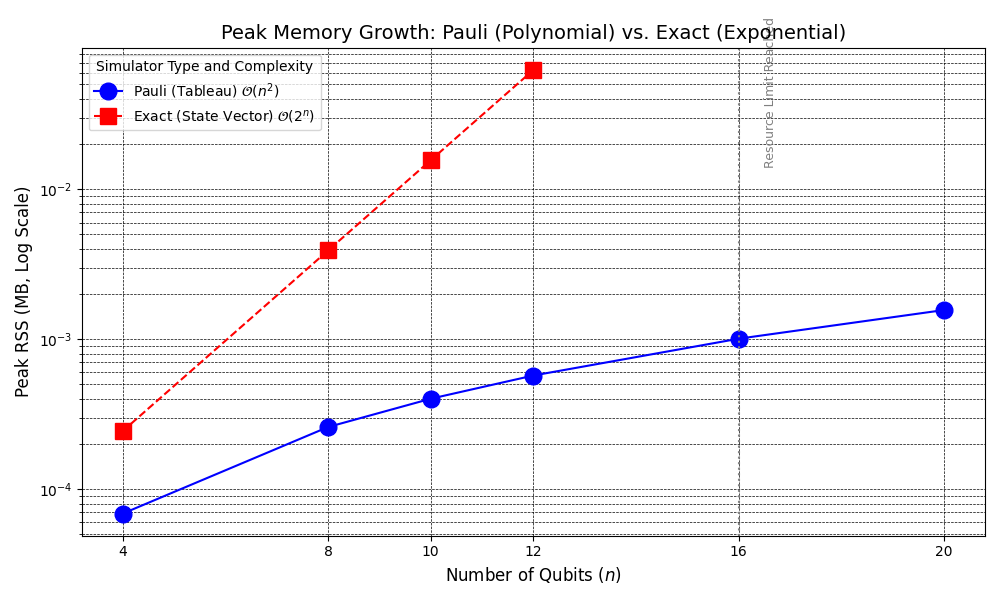
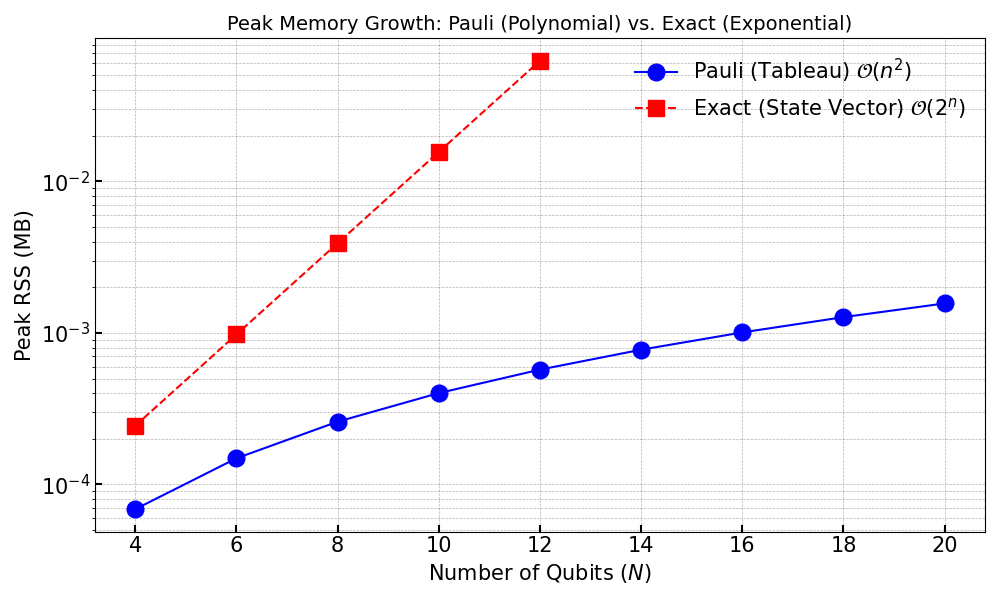
Updated visualizations

diff --git a/src/benchmark_and_plots.py b/src/benchmark_and_plots.py
@@ -11,7 +11,7 @@ from src.gates.registry import GateRegistry
 
 gate_registry = GateRegistry()
 
-QUBIT_RANGE = [4, 8, 10, 12, 16, 20] 
+QUBIT_RANGE = [4, 6, 8, 10, 12, 14, 16, 18, 20] 
 CIRCUIT_DEPTH = 50
 FAILED = -1.0
 
@@ -40,9 +40,6 @@ def measure_peak_rss(pid: int) -> float:
 
 def run_benchmark(qubits: int, circuit: List[Tuple], simulator_class: type, name: str) -> Dict[str, float]:
     """Runs a single benchmark for a given simulator and returns time and peak memory."""
-    
-    start_rss = measure_peak_rss(os.getpid())
-    peak_rss = start_rss
     run_time = FAILED
     success = True 
 
@@ -52,8 +49,6 @@ def run_benchmark(qubits: int, circuit: List[Tuple], simulator_class: type, name
             start_time = time.perf_counter()
             
             for gate, c, t in circuit:
-                current_rss = measure_peak_rss(os.getpid())
-                peak_rss = max(peak_rss, current_rss)
 
                 if gate == 'h':
                     sim.h(c)
@@ -73,8 +68,6 @@ def run_benchmark(qubits: int, circuit: List[Tuple], simulator_class: type, name
             start_time = time.perf_counter()
 
             for gate, c, t in circuit:
-                current_rss = measure_peak_rss(os.getpid())
-                peak_rss = max(peak_rss, current_rss)
 
                 if gate == 'cx':
                     sim.add_gate(gate_registry.get('cx'), targets=[c,t])
@@ -95,7 +88,6 @@ def run_benchmark(qubits: int, circuit: List[Tuple], simulator_class: type, name
          print(f"ERROR: {name} run at {qubits} qubits failed: {e}")
          success = False
     
-    current_rss = measure_peak_rss(os.getpid())
     peak_rss = sim.get_state_memory_mb()
     
     if not success:
@@ -122,7 +114,10 @@ def collect_data():
         circuit = generate_random_clifford_circuit(n, CIRCUIT_DEPTH)
 
         pauli_results = run_benchmark(n, circuit, Tableau, "Pauli (Tableau)")
-        exact_results = run_benchmark(n, circuit, QuantumCircuit, "Exact (State Vector)")
+        if n <= 12:
+            exact_results = run_benchmark(n, circuit, QuantumCircuit, "Exact (State Vector)")
+        else:
+            exact_results = {'time_s': FAILED, 'peak_rss_mb': FAILED}
 
         print(f"  Pauli Time: {pauli_results['time_s']:.4f} s | Exact Time: {exact_results['time_s']:.4f} s")
         print(f"  Pauli Mem: {pauli_results['peak_rss_mb']:.5f} MB | Exact Mem: {exact_results['peak_rss_mb']:.5f} MB")
@@ -153,28 +148,31 @@ def plot_results(df: pd.DataFrame):
     
     df_plot = df.replace(FAILED, np.nan)
     
-    plt.figure(figsize=(10, 6))
     plt.rcParams["grid.color"] = "black"
     plt.rcParams["grid.linestyle"] = "--"
     plt.rcParams["grid.linewidth"] = 1.5
-    plt.rcParams["grid.alpha"] = 1.0
+    plt.rcParams["grid.alpha"] = 0.3
+
+    plt.figure(figsize=(10, 6))
+    plt.gca().tick_params(axis='both', which='major', labelsize=15, direction='in', length=5, width=1.5)
 
     plt.plot(df_plot['Qubits'], df_plot['Pauli_Time_s'], marker='o', label='Pauli (Tableau) $\mathcal{O}(n^k)$', linestyle='-', color='blue', markersize=12)
     plt.plot(df_plot['Qubits'], df_plot['Exact_Time_s'], marker='s', label='Exact (State Vector) $\mathcal{O}(2^n)$', linestyle='--', color='red', markersize=12)
 
     # plt.grid(visible=True, color='black', linestyle='-', linewidth=1.5, alpha=1.0) 
     plt.yscale('log')
-    plt.title('Execution Time Growth: Pauli (Polynomial) vs. Exact (Exponential)', fontsize=14)
-    plt.xlabel('Number of Qubits ($n$)', fontsize=12)
-    plt.ylabel('Execution Time (Seconds, Log Scale)', fontsize=12)
+    plt.title('Wall Time Growth: Pauli (Polynomial) vs. Exact (Exponential)', fontsize=14)
+    plt.xlabel('Number of Qubits ($N$)', fontsize=15)
+    plt.ylabel('Wall Time (Seconds)', fontsize=15)
     plt.xticks(df['Qubits'])
     plt.grid(True, which="both", ls="--", linewidth=0.5)
-    plt.legend(title='Simulator Type and Complexity')
+    # plt.legend(fontsize=15, frameon=False)
     plt.tight_layout()
     plt.savefig('timing_growth_comparison_final.png')
     print("Saved: timing_growth_comparison_final.png")
 
     plt.figure(figsize=(10, 6))
+    plt.gca().tick_params(axis='both', which='major', labelsize=15, direction='in', length=5, width=1.5)
 
     plt.plot(df_plot['Qubits'], df_plot['Pauli_Mem_MB'], marker='o', label='Pauli (Tableau) $\mathcal{O}(n^2)$', linestyle='-', color='blue', markersize=12)
     plt.plot(df_plot['Qubits'], df_plot['Exact_Mem_MB'], marker='s', label='Exact (State Vector) $\mathcal{O}(2^n)$', linestyle='--', color='red', markersize=12)
@@ -182,18 +180,11 @@ def plot_results(df: pd.DataFrame):
     # plt.grid(visible=True, color='black', linestyle='--', linewidth=1.5, alpha=1.0) 
     plt.yscale('log')
     plt.title('Peak Memory Growth: Pauli (Polynomial) vs. Exact (Exponential)', fontsize=14)
-    plt.xlabel('Number of Qubits ($n$)', fontsize=12)
-    plt.ylabel('Peak RSS (MB, Log Scale)', fontsize=12)
+    plt.xlabel('Number of Qubits ($N$)', fontsize=15)
+    plt.ylabel('Peak RSS (MB)', fontsize=15)
     plt.xticks(df['Qubits'])
     plt.grid(True, which="both", ls="--", linewidth=0.5)
-    plt.legend(title='Simulator Type and Complexity')
-    
-    failed_n = df[df['Exact_Mem_MB'] == FAILED]['Qubits']
-    if not failed_n.empty:
-        first_fail_n = failed_n.iloc[0]
-        plt.axvline(x=first_fail_n, color='gray', linestyle=':', linewidth=1.5, label='Approx. Failure Point')
-        plt.text(first_fail_n + 0.5, plt.ylim()[1] / 2, 'Resource Limit Reached',
-                 color='gray', rotation=90, va='center', ha='left', fontsize=9)
+    plt.legend(fontsize=15, frameon=False)
 
     plt.tight_layout()
     plt.savefig('memory_growth_comparison_final.png')

diff --git a/src/visualization_dump.py b/src/visualization_dump.py
@@ -6,6 +6,8 @@ def create_memory_context_plot():
     """
     Creates two graphs: one log scale (for true comparison) and one linear scale
     (to show the exponential curve visually).
+
+    AI Generated to help with creating the contextual memory scaling charts.
     """
     # 1. Configuration and Data Points
     QUBITS_MAX = 52 
@@ -41,7 +43,7 @@ def create_memory_context_plot():
     plt.rcParams["grid.color"] = "black"
     plt.rcParams["grid.linestyle"] = "-"
     plt.rcParams["grid.linewidth"] = 1.5
-    plt.rcParams["grid.alpha"] = 1.0
+    plt.rcParams["grid.alpha"] = 0.3
     
     plt.plot(qubits, exact_memory_gb, 
              label=r'Exact Memory ($\mathcal{O}(2^n)$)', 
@@ -53,7 +55,7 @@ def create_memory_context_plot():
              
     # Add Milestones
     for mem_gb, label, color, n_qubits_approx in milestones:
-        plt.axhline(y=mem_gb, color=color, linestyle=':', linewidth=2.0, alpha=0.9)
+        plt.axhline(y=mem_gb, color=color, linestyle=':', linewidth=2.0, alpha=0.5)
         
         if mem_gb >= 1024**2: 
             label_text = label.replace("PB", f"({mem_gb/1024**2:.1f} PB)")
@@ -66,15 +68,16 @@ def create_memory_context_plot():
                  color=color, fontsize=15, verticalalignment='bottom')
         
     # Final Plot Aesthetics (Log)
-    plt.title(r'Memory Wall: Exponential vs. Polynomial Scaling (Log Scale)', fontsize=16)
-    plt.xlabel('Number of Qubits ($n$)', fontsize=14)
-    plt.ylabel('Theoretical Memory Used by State (Gigabytes, Log Scale)', fontsize=14)
+    plt.title(r'Memory Wall: Exponential vs. Polynomial Scaling', fontsize=16)
+    plt.gca().tick_params(axis='both', which='major', labelsize=15, direction='in', length=5, width=1.5)
+    plt.xlabel('Number of Qubits ($N$)', fontsize=15)
+    plt.ylabel('Memory Cost (GB)', fontsize=15)
     plt.yscale('log')
     plt.xlim(1, QUBITS_MAX)
     # Set lower limit low enough to capture the O(n^2) growth curve
     plt.ylim(10**(-6), exact_memory_gb[-1] * 2) 
-    plt.grid(True, which="both", ls="--", linewidth=0.5, alpha=0.7)
-    plt.legend(loc='upper left', fontsize=12, title='Simulator Type')
+    plt.grid(True, which="both", ls="--", linewidth=0.5)
+    plt.legend(loc='upper left', fontsize=15, frameon=False, ncol=2, handlelength=0.5, columnspacing=0.6)
     plt.tight_layout()
     plt.savefig('memory_wall_context_plot_log.png')
 
